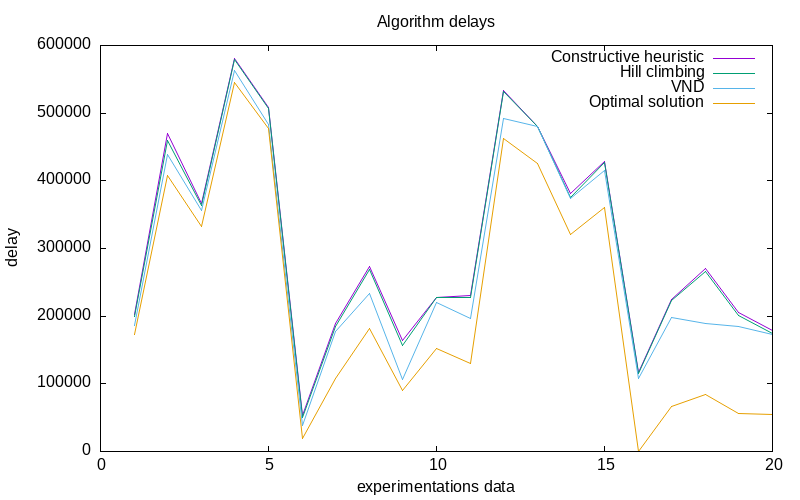
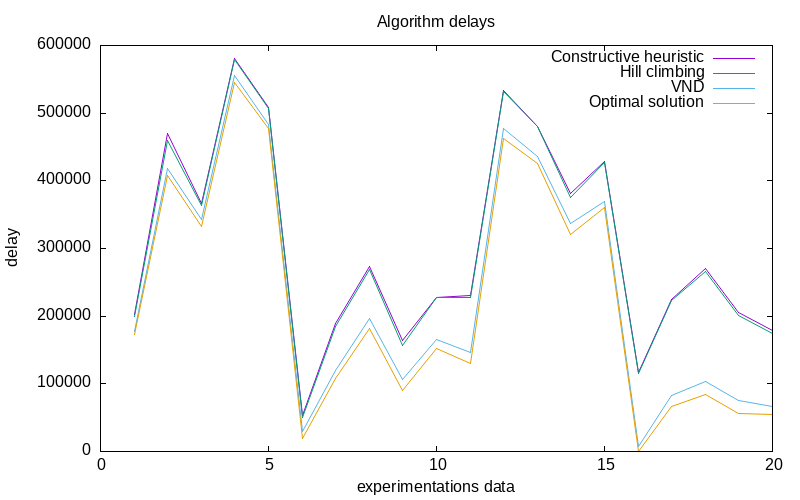
vnd optimized, added many swapping functions

diff --git a/TP4/src/process.c b/TP4/src/process.c
@@ -1,6 +1,6 @@
 #include "process.h"
 
-// Functions used in quicksort to make constructive heuristics, but not useful now
+// Functions used in the beginning in quicksort to make constructive heuristics, but not useful now
 // double limit_time_value_function(process_t *process)
 // {
 //     return process->limit_time;
@@ -79,20 +79,6 @@ void constructive_heuristique(int *ordonnancement, process_t *processes, int nb_
       ordonnancement[i] = index;
    }
 }
-
-// Function used with quicksort to make constructive heuristique
-// void test(process_t *processes, int nb_processes, value_function func)
-// {
-//    int ordonnancement_constructive_heuristique[nb_processes];
-//    int *ordonnancement_constructive_heuristique_ptr = ordonnancement_constructive_heuristique;
-//    quicksort(processes, 0, nb_processes - 1, func);
-//    for (int i = 0; i < nb_processes; i++)
-//    {
-//       ordonnancement_constructive_heuristique[i] = i;
-//    }
-//    int delay = sum_total_delay(processes, nb_processes, ordonnancement_constructive_heuristique_ptr);
-//    printf("Delay: %d\n", delay);
-// }
 
 int **generate_neighbors(int *ordonnancement, int nb_processes, swap_function swap_func)
 {
@@ -176,14 +162,37 @@ int *get_best_neighbor_and_free(int **neighbors, process_t *processes, int nb_pr
    return best_neighbor;
 }
 
-void vnd(int *current_ordonnancement, process_t *processes, int nb_processes, int k)
+// Functions used for the generation of different neighborhoods, by order of small to big perturbation
+// swap_function swap_functions[] = {swap_i_and_i_plus_1,
+//                                   swap_i_and_middle,
+//                                   swap_i_and_i_plus_nb_processes_div_2,
+//                                   shift_left_lasts_i,
+//                                   shift_left,
+//                                   shift_right,
+//                                   swap_sub_list_nb_processes_per_4,
+//                                   swap_random_nb_processes_per_4,
+//                                   swap_symetric,
+//                                   swap_random};
+
+swap_function swap_functions[] = {
+    swap_i_and_i_plus_1,
+    swap_i_and_middle,
+    swap_symetric,
+    swap_random_nb_processes_per_4,
+    swap_random,
+    swap_sub_list_nb_processes_per_4,
+};
+
+void vnd(int *current_ordonnancement, process_t *processes, int nb_processes)
 {
+   int nb_swap_function = sizeof(swap_functions) / sizeof(swap_function);
    int i = 0;
    int current_delay = sum_total_delay(processes, nb_processes, current_ordonnancement);
-   while (i < k)
+   while (i < nb_swap_function)
    {
-      int **neighbors = generate_neighbors(current_ordonnancement, nb_processes, swap_i_and_middle);
+      int **neighbors = generate_neighbors(current_ordonnancement, nb_processes, swap_functions[i]);
       int *best_neighbor = get_best_neighbor_and_free(neighbors, processes, nb_processes);
+      hill_climbing(best_neighbor, processes, nb_processes);
       int neighbor_delay = sum_total_delay(processes, nb_processes, best_neighbor);
       if (neighbor_delay < current_delay)
       {
@@ -197,26 +206,4 @@ void vnd(int *current_ordonnancement, process_t *processes, int nb_processes, in
       }
       free(best_neighbor);
    }
-}
-
-int *perturb_solution(int *ordonnancement, int nb_processes)
-{
-   int *perturbed = malloc(nb_processes * sizeof(int));
-   memcpy(perturbed, ordonnancement, nb_processes * sizeof(int));
-
-   // Exemple : Échanger deux éléments aléatoires
-   int i = rand() % nb_processes;
-   int j = rand() % nb_processes;
-   if (i != j)
-   {
-      int temp = perturbed[i];
-      perturbed[i] = perturbed[j];
-      perturbed[j] = temp;
-   }
-   else
-   {
-      free(perturbed);
-      return perturb_solution(ordonnancement, nb_processes);
-   }
-   return perturbed;
 }

diff --git a/TP4/src/swap.c b/TP4/src/swap.c
@@ -30,3 +30,75 @@ void swap_i_and_i_plus_1(int *ordonnancement, int *sorted_ordonnancement, int nb
    ordonnancement[sorted_ordonnancement[nb_processes - 1]] = i; // 201K
    ordonnancement[sorted_ordonnancement[i]] = nb_processes - 1;
 }
+
+void swap_random(int *ordonnancement, int *sorted_ordonnancement, int nb_processes, int i)
+{
+   int index1 = rand() % nb_processes;
+   int index2 = rand() % nb_processes;
+
+   while (index1 == index2)
+   {
+      index2 = rand() % nb_processes;
+   }
+
+   int temp = ordonnancement[sorted_ordonnancement[index1]];
+   ordonnancement[sorted_ordonnancement[index1]] = ordonnancement[sorted_ordonnancement[index2]];
+   ordonnancement[sorted_ordonnancement[index2]] = temp;
+}
+
+void shift_left(int *ordonnancement, int *sorted_ordonnancement, int nb_processes, int i)
+{
+   int temp = ordonnancement[0];
+   for (int j = 0; j < nb_processes - 1; j++)
+   {
+      ordonnancement[j] = ordonnancement[j + 1];
+   }
+   ordonnancement[nb_processes - 1] = temp;
+}
+
+void shift_left_lasts_i(int *ordonnancement, int *sorted_ordonnancement, int nb_processes, int i)
+{
+   int temp = ordonnancement[0];
+   for (int j = nb_processes - i; j < nb_processes; j++)
+   {
+      ordonnancement[j] = ordonnancement[j + 1];
+   }
+   ordonnancement[nb_processes - 1] = temp;
+}
+
+void shift_right(int *ordonnancement, int *sorted_ordonnancement, int nb_processes, int i)
+{
+   int temp = ordonnancement[0];
+   for (int j = 1; j < nb_processes; j++)
+   {
+      ordonnancement[j - 1] = ordonnancement[j];
+   }
+   ordonnancement[nb_processes - 1] = temp;
+}
+
+void swap_sub_list_nb_processes_per_4(int *ordonnancement, int *sorted_ordonnancement, int nb_processes, int i)
+{
+   if (i >= 3 * nb_processes / 4)
+   {
+      i -= nb_processes / 4;
+   }
+   swap_symetric(ordonnancement, sorted_ordonnancement, nb_processes, i);
+}
+
+void swap_random_nb_processes_per_4(int *ordonnancement, int *sorted_ordonnancement, int nb_processes, int i)
+{
+   int num_swaps = nb_processes / 4;
+   for (int j = 0; j < num_swaps; j++)
+   {
+      int index1 = rand() % nb_processes;
+      int index2 = rand() % nb_processes;
+
+      while (index1 == index2)
+      {
+         index2 = rand() % nb_processes;
+      }
+      int temp = ordonnancement[index1];
+      ordonnancement[index1] = ordonnancement[index2];
+      ordonnancement[index2] = temp;
+   }
+}

diff --git a/TP4/include/swap.h b/TP4/include/swap.h
@@ -1,6 +1,8 @@
 #ifndef INCLUDE_SWAP_H
 #define INCLUDE_SWAP_H
 
+#include <stdlib.h>
+
 typedef void (*swap_function)(int *ordonnancement, int *sorted_ordonnancement, int nb_processes, int i);
 
 void swap(int *x, int *y);
@@ -8,5 +10,11 @@ void swap_symetric(int *ordonnancement, int *sorted_ordonnancement, int nb_proce
 void swap_i_and_middle(int *ordonnancement, int *sorted_ordonnancement, int nb_processes, int i);
 void swap_i_and_i_plus_nb_processes_div_2(int *ordonnancement, int *sorted_ordonnancement, int nb_processes, int i);
 void swap_i_and_i_plus_1(int *ordonnancement, int *sorted_ordonnancement, int nb_processes, int i);
+void swap_random(int *ordonnancement, int *sorted_ordonnancement, int nb_processes, int i);
+void shift_left(int *ordonnancement, int *sorted_ordonnancement, int nb_processes, int i);
+void shift_right(int *ordonnancement, int *sorted_ordonnancement, int nb_processes, int i);
+void swap_sub_list_nb_processes_per_4(int *ordonnancement, int *sorted_ordonnancement, int nb_processes, int i);
+void swap_random_nb_processes_per_4(int *ordonnancement, int *sorted_ordonnancement, int nb_processes, int i);
+void shift_left_lasts_i(int *ordonnancement, int *sorted_ordonnancement, int nb_processes, int i);
 
 #endif // INCLUDE_SWAP_H

diff --git a/TP4/src/main.c b/TP4/src/main.c
@@ -2,6 +2,8 @@
 
 int main(void)
 {
+    // srand(time(NULL));
+
     process_file_t *process_file = parse_process_file("SMTWP/n100_15_b.txt");
 
     // for (int i = 0; i < process_file->nb_processes; i++)
@@ -33,7 +35,7 @@ int main(void)
     printf("Delay after hill climbing: %d\n", delay);
 
     memcpy(ordonnancement_ptr, ordonnancement_sorted, nb_processes * sizeof(int));
-    vnd(ordonnancement_ptr, processes, nb_processes, 100000);
+    vnd(ordonnancement_ptr, processes, nb_processes);
     delay = sum_total_delay(processes, nb_processes, ordonnancement_ptr);
     printf("Delay after vnd: %d\n", delay);
 

diff --git a/TP4/src/experiments.c b/TP4/src/experiments.c
@@ -27,7 +27,7 @@ void experiment(process_t *processes, int nb_processes, int optimal_solution)
    printf("Hill Climbing delay: %d, ratio: %lf\n", hill_climbing_delay, hill_climbing_ratio);
 
    memcpy(ordonnancement_ptr, ordonnancement_sorted, nb_processes * sizeof(int));
-   vnd(ordonnancement_ptr, processes, nb_processes, 100000);
+   vnd(ordonnancement_ptr, processes, nb_processes);
    int vnd_delay = sum_total_delay(processes, nb_processes, ordonnancement_ptr);
    double vnd_ratio = (double)vnd_delay / (double)optimal_solution;
    printf("VND delay: %d, ratio: %lf\n", vnd_delay, vnd_ratio);

diff --git a/TP4/include/process.h b/TP4/include/process.h
@@ -23,6 +23,6 @@ int sum_total_delay(process_t *processes, int nb_processes, int *ordonnancement)
 void generate_random_solution(int *ordonnancement, int nb_processes);
 void constructive_heuristique(int *current_ordonnancement, process_t *processes, int nb_processes);
 void hill_climbing(int *current_ordonnancement, process_t *processes, int nb_processes);
-void vnd(int *current_ordonnancement, process_t *processes, int nb_processes, int k);
+void vnd(int *current_ordonnancement, process_t *processes, int nb_processes);
 
 #endif // INCLUDE_PROCESS_H
